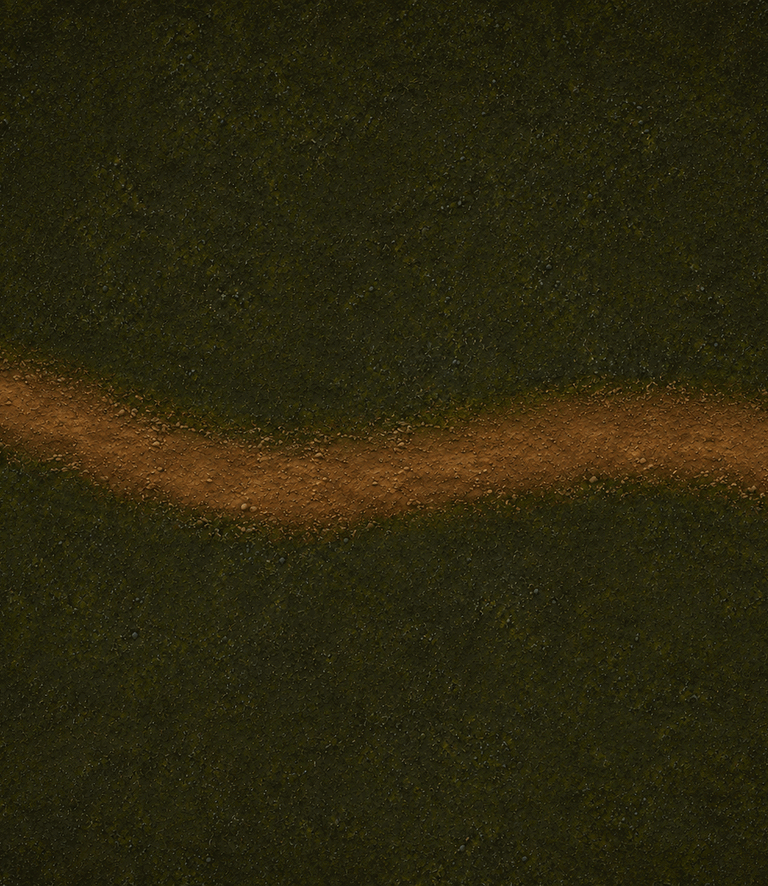
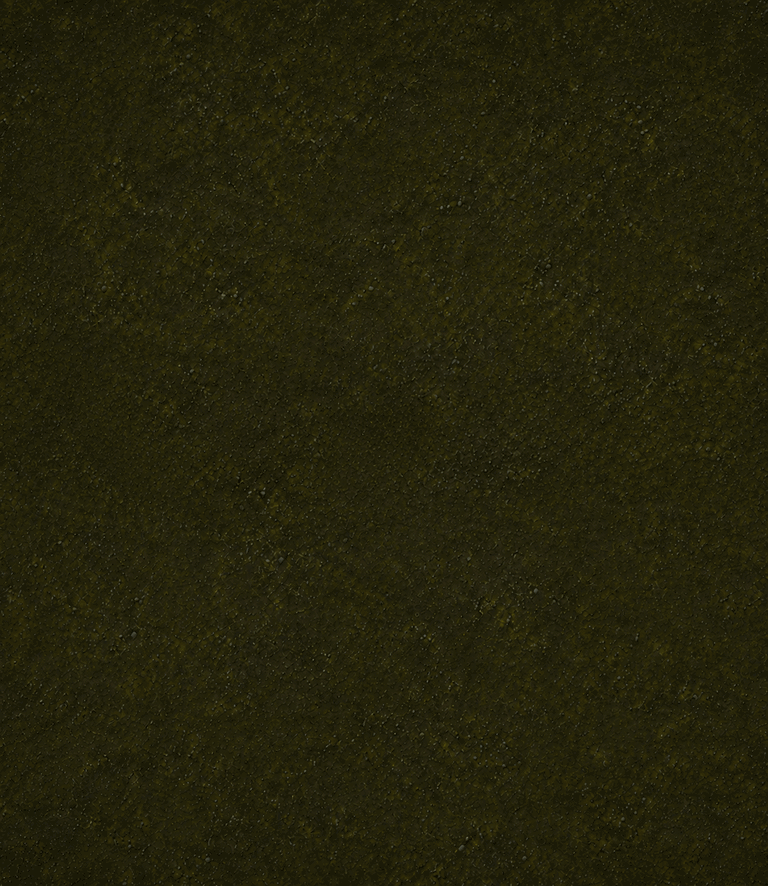
Build seamless biome road system

Changed region(s): [[0.0, 0.3962, 1.0, 0.6095], [0.2812, 0.3047, 0.3125, 0.3352]]

diff --git a/script.js b/script.js
@@ -4,7 +4,7 @@
   const canvas=document.getElementById('gameCanvas');
   const game=document.getElementById('game');
   const ctx=canvas.getContext('2d',{alpha:false});
-  const ASSET_VERSION='0268';
+  const ASSET_VERSION='0269';
   const MOONGLASS_SURFACE_BLEND=190;
   const MOONGLASS_GATE_TRANSITION_DURATION=1.8;
   const LIGHTING=Object.freeze({
@@ -21,8 +21,9 @@
   // iOS may ignore HTMLAudioElement volume. The asset itself is mastered at -28 LUFS.
   const MUSIC_VOLUME=1;
   const MOSSVEIN_ART={wall:null,floor:null,floorPattern:null};
-  const SURFACE_ART={mossveinGround:null,mossveinMinePath:null,moonglassGround:null,moonglassGroundPattern:null,moonglassCrystals:null,moonglassBloomBed:null};
+  const SURFACE_ART={mossveinGround:null,mossveinMinePath:null,roads:{},moonglassGround:null,moonglassGroundPattern:null,moonglassCrystals:null,moonglassBloomBed:null};
   const MOSSVEIN_MINE_PATH='assets/surface/mossvein-mine-path.png';
+  const SURFACE_ROAD_PATHS=Object.freeze({mossvein:'assets/surface/road-mossvein.png',moonglass:'assets/surface/road-moonglass.png',emberdeep:'assets/surface/road-emberdeep.png',starfall:'assets/surface/road-starfall.png'});
   const DISCOVERY_ART={crystalPocket:null};
   const STARTER_ART={sellStation:null,forgeStation:null,storageChest:null,wayfarerShop:null,moonglassGate:null,moonglassGateMark:null,emberdeepSeal:null,treasureClosed:null,treasureOpen:null,drops:{}};
   const STARTER_PATHS=Object.freeze({
@@ -131,6 +132,7 @@
   for(const [scene,path] of Object.entries(MINE_ENTRANCE_PATHS))MINE_ENTRANCE_ART[scene]=loadMineEntranceImage(scene,path);
   SURFACE_ART.mossveinGround=loadSurfaceImage('assets/surface/mossvein-ground.png','mossveinGround');
   SURFACE_ART.mossveinMinePath=loadSurfaceImage(MOSSVEIN_MINE_PATH,'mossveinMinePath');
+  for(const [biome,path] of Object.entries(SURFACE_ROAD_PATHS))SURFACE_ART.roads[biome]=loadMappedImage(path,SURFACE_ART.roads,biome);
   SURFACE_ART.moonglassGround=loadSurfaceImage(SURFACE_MOONGLASS_PATHS.ground,'moonglassGround','moonglassGroundPattern');
   SURFACE_ART.moonglassCrystals=loadSurfaceImage(SURFACE_MOONGLASS_PATHS.crystals,'moonglassCrystals');
   SURFACE_ART.moonglassBloomBed=loadSurfaceImage(SURFACE_MOONGLASS_PATHS.bloomBed,'moonglassBloomBed');
@@ -204,7 +206,7 @@
   const buyChestCost=document.getElementById('buyChestCost');
   const baseModuleList=document.getElementById('baseModuleList');
 
-  const BUILD={version:'0.26.8',name:'MOONGLASS COMPLETE'};
+  const BUILD={version:'0.26.9',name:'MOONGLASS COMPLETE'};
   document.getElementById('buildVersion').textContent='v'+BUILD.version;
   document.getElementById('menuBuildVersion').textContent='EVER DEEPER v'+BUILD.version+' · '+BUILD.name;
 
@@ -496,25 +498,25 @@
   ];
   const CHEST_INTERACT_RADIUS=108;
   const ROCK_LAYOUT=[
-    ['stone',250,535],['stone',425,600],['stone',605,480],['stone',760,670],['stone',890,410],
-    ['stone',325,900],['stone',610,1020],['stone',835,930],['stone',935,780],['stone',510,790],
-    ['copper',790,300],['copper',915,565],['copper',205,1050],['copper',710,845],['copper',430,1060],
+    ['stone',250,535],['stone',425,600],['stone',605,480],['stone',760,520],['stone',890,410],
+    ['stone',325,1030],['stone',610,1020],['stone',835,930],['stone',935,880],['stone',510,980],
+    ['copper',790,300],['copper',915,565],['copper',205,1050],['copper',710,1010],['copper',430,1060],
     ['gold',560,380],
     ['moonglass',1300,350],['moonglass',1490,530],['moonglass',1730,330],['moonglass',1980,500],
-    ['moonglass',1265,825],['moonglass',1510,1010],['moonglass',1790,810],['moonglass',2040,1030],
-    ['copper',1390,690],['copper',1880,670],['stone',1600,750],['stone',2100,750],['starshard',1840,1080],
+    ['moonglass',1265,950],['moonglass',1510,1010],['moonglass',1790,950],['moonglass',2040,1030],
+    ['copper',1390,900],['copper',1880,900],['stone',1600,930],['stone',2100,930],['starshard',1840,1080],
     ['emberstone',2380,335],['emberstone',2580,520],['emberstone',2825,310],['emberstone',3140,470],
-    ['emberstone',2400,865],['emberstone',2690,1030],['emberstone',2940,790],['emberstone',3220,1010],
-    ['moonglass',2520,700],['copper',3070,680],['sunslag',3000,1080],
+    ['emberstone',2400,865],['emberstone',2690,1030],['emberstone',2940,950],['emberstone',3220,1010],
+    ['moonglass',2520,900],['copper',3070,900],['sunslag',3000,1080],
     ['astralite',3505,320],['astralite',3700,520],['astralite',3970,300],['astralite',4240,470],
-    ['astralite',3475,900],['astralite',3780,1040],['astralite',4090,820],['astralite',4380,1040],
-    ['moonglass',3630,735],['emberstone',4300,690],['crownstone',4140,1110]
+    ['astralite',3475,900],['astralite',3780,1040],['astralite',4090,960],['astralite',4380,1040],
+    ['moonglass',3630,920],['emberstone',4300,900],['crownstone',4140,1110]
   ];
   const VEIN_DEFINITIONS=[
     {id:'copper_run',type:'copper',timeLimit:16,respawn:28,color:'#e2a36e',bonus:{copper:3},positions:[[875,1085],[945,1025],[1010,1100]]},
     {id:'moonglass_bloom',type:'moonglass',timeLimit:18,respawn:32,color:'#9ef2ed',bonus:{moonglass:2,starshard:1},positions:[[1600,430],[1665,500],[1735,555]]},
-    {id:'ember_fault',type:'emberstone',timeLimit:22,respawn:38,color:'#ff9b54',bonus:{emberstone:3,sunslag:1},positions:[[2700,690],[2780,665],[2855,725]]},
-    {id:'starfall_lattice',type:'astralite',timeLimit:20,respawn:42,color:'#c4cfff',bonus:{astralite:3,crownstone:1},positions:[[3720,690],[3810,650],[3900,720]]}
+    {id:'ember_fault',type:'emberstone',timeLimit:22,respawn:38,color:'#ff9b54',bonus:{emberstone:3,sunslag:1},positions:[[2700,875],[2780,940],[2855,900]]},
+    {id:'starfall_lattice',type:'astralite',timeLimit:20,respawn:42,color:'#c4cfff',bonus:{astralite:3,crownstone:1},positions:[[3720,880],[3810,930],[3900,890]]}
   ];
   const VEIN_ROCK_LAYOUT=VEIN_DEFINITIONS.flatMap(vein=>vein.positions.map(position=>[vein.type,position[0],position[1],vein.id]));
 
@@ -2942,8 +2944,35 @@
 
   function drawMossveinMineApproach(){
     const image=SURFACE_ART.mossveinMinePath;if(!imageReady(image))return;
-    const topLeft=worldToScreen(125,775),width=700,height=155;if(topLeft.x>viewWidth||topLeft.y>viewHeight||topLeft.x+width<0||topLeft.y+height<0)return;
+    const topLeft=worldToScreen(125,750),width=700,height=200;if(topLeft.x>viewWidth||topLeft.y>viewHeight||topLeft.x+width<0||topLeft.y+height<0)return;
     ctx.drawImage(image,topLeft.x,topLeft.y,width,height);
+  }
+
+  function drawSurfaceRoadImage(image,x,flip,clipLeft=-Infinity,clipRight=Infinity,alpha=1){
+    if(!imageReady(image))return;const y=590,width=1190,height=300,p=worldToScreen(x,y);
+    if(p.x>viewWidth+width||p.x+width<0||p.y>viewHeight+height||p.y+height<0)return;
+    ctx.save();
+    if(Number.isFinite(clipLeft)||Number.isFinite(clipRight)){const left=Number.isFinite(clipLeft)?worldToScreen(clipLeft,0).x:-width,right=Number.isFinite(clipRight)?worldToScreen(clipRight,0).x:viewWidth+width;ctx.beginPath();ctx.rect(left,-height,right-left,viewHeight+height*2);ctx.clip()}
+    ctx.globalAlpha=alpha;
+    if(flip){ctx.translate(p.x+width,p.y);ctx.scale(-1,1);ctx.drawImage(image,0,0,width,height)}else ctx.drawImage(image,p.x,p.y,width,height);
+    ctx.restore();
+  }
+
+  function drawSurfaceMainRoad(){
+    const definitions=[
+      {biome:'mossvein',x:-40,flip:false,boundary:null},
+      {biome:'moonglass',x:1070,flip:true,boundary:WORLD.gateX},
+      {biome:'emberdeep',x:2200,flip:false,boundary:WORLD.emberGateX},
+      {biome:'starfall',x:3320,flip:true,boundary:WORLD.starfallGateX}
+    ];
+    if(!definitions.every(item=>imageReady(SURFACE_ART.roads[item.biome])))return;
+    drawSurfaceRoadImage(SURFACE_ART.roads.mossvein,-40,false);
+    for(let index=1;index<definitions.length;index++){
+      const item=definitions[index],image=SURFACE_ART.roads[item.biome],fadeStart=item.boundary-40,fadeEnd=item.boundary+40;
+      drawSurfaceRoadImage(image,item.x,item.flip,fadeEnd,Infinity);
+      const strips=8,stripWidth=(fadeEnd-fadeStart)/strips;
+      for(let strip=0;strip<strips;strip++){const left=fadeStart+strip*stripWidth,right=left+stripWidth+.5,alpha=(strip+.5)/strips;drawSurfaceRoadImage(image,item.x,item.flip,left,right,alpha)}
+    }
   }
 
   function drawGround(){
@@ -2965,6 +2994,7 @@
     ctx.fillStyle='rgba(222,76,35,.07)';ctx.fillRect(emberStart,0,starfallStart-emberStart,viewHeight);
     ctx.fillStyle='rgba(154,164,255,.075)';ctx.fillRect(starfallStart,0,viewWidth-starfallStart,viewHeight);
     drawMossveinMineApproach();
+    drawSurfaceMainRoad();
   }
 
   function drawBiomeStructure(){
@@ -3484,7 +3514,7 @@
 
   window.__everDeeperTest={
     snapshot:()=>JSON.parse(JSON.stringify({
-      build:BUILD,state,scene:currentScene,depth:currentDepth,assetVersion:ASSET_VERSION,music:{asset:MUSIC_PATH.split('?')[0],volume:MUSIC_VOLUME,loop:true,started:musicStarted},assetRendering:{stone:['node'],copper:['wall','node'],gold:['wall','node']},entranceAssetRendering:{mossMine:true,moonMine:true},surfaceAssetRendering:{mossveinGround:true,mossveinMineApproach:MOSSVEIN_MINE_PATH,mossveinMineApproachBounds:{x:125,y:775,w:700,h:155},mossveinMinePosition:{x:180,y:830},mainRoadUntouched:true,legacyMossveinGrid:false,legacyMossveinPath:false,legacyMossveinDecorations:false},starterRendering:{sellStation:STARTER_PATHS.sellStation,forgeStation:STARTER_PATHS.forgeStation,storageChest:STARTER_PATHS.storageChest,wayfarerShop:STARTER_PATHS.wayfarerShop,treasureClosed:STARTER_PATHS.treasureClosed,treasureOpen:STARTER_PATHS.treasureOpen,groundDrops:DROP_PATHS,legacyCanvasStations:false,legacyMossveinChests:false,legacyStarterDrops:false},rootwoundRendering:{floor:ROOTWOUND_PATHS.floor,wall:ROOTWOUND_PATHS.wall,nodes:['rootiron','deepstone','ambercore','burrowsteel'],rootironWall:ROOTWOUND_PATHS.rootironWall,shaft:ROOTWOUND_PATHS.shaft,sellStation:ROOTWOUND_PATHS.sellStation,drillForge:ROOTWOUND_PATHS.drillForge,legacyFloorDecorations:false,legacyTerrainTexture:false,legacyDepthShaft:false,legacyDepthStations:false,legacyResourceNodes:false},
+      build:BUILD,state,scene:currentScene,depth:currentDepth,assetVersion:ASSET_VERSION,music:{asset:MUSIC_PATH.split('?')[0],volume:MUSIC_VOLUME,loop:true,started:musicStarted},assetRendering:{stone:['node'],copper:['wall','node'],gold:['wall','node']},entranceAssetRendering:{mossMine:true,moonMine:true},surfaceAssetRendering:{mossveinGround:true,mainRoad:SURFACE_ROAD_PATHS,seamlessBiomeRoad:true,roadCrossfadeWidth:80,mossveinMineApproach:MOSSVEIN_MINE_PATH,mossveinMineApproachBounds:{x:125,y:750,w:700,h:200},mossveinMinePosition:{x:180,y:830},branchUnderMainRoad:true,legacyBakedMainRoad:false,legacyMossveinGrid:false,legacyMossveinPath:false,legacyMossveinDecorations:false},starterRendering:{sellStation:STARTER_PATHS.sellStation,forgeStation:STARTER_PATHS.forgeStation,storageChest:STARTER_PATHS.storageChest,wayfarerShop:STARTER_PATHS.wayfarerShop,treasureClosed:STARTER_PATHS.treasureClosed,treasureOpen:STARTER_PATHS.treasureOpen,groundDrops:DROP_PATHS,legacyCanvasStations:false,legacyMossveinChests:false,legacyStarterDrops:false},rootwoundRendering:{floor:ROOTWOUND_PATHS.floor,wall:ROOTWOUND_PATHS.wall,nodes:['rootiron','deepstone','ambercore','burrowsteel'],rootironWall:ROOTWOUND_PATHS.rootironWall,shaft:ROOTWOUND_PATHS.shaft,sellStation:ROOTWOUND_PATHS.sellStation,drillForge:ROOTWOUND_PATHS.drillForge,legacyFloorDecorations:false,legacyTerrainTexture:false,legacyDepthShaft:false,legacyDepthStations:false,legacyResourceNodes:false},
       surfaceMoonglassRendering:{ground:SURFACE_MOONGLASS_PATHS.ground,crystals:SURFACE_MOONGLASS_PATHS.crystals,bloomBed:SURFACE_MOONGLASS_PATHS.bloomBed,entrance:MINE_ENTRANCE_PATHS.moonMine,gateMark:STARTER_PATHS.moonglassGateMark,emberdeepSeal:STARTER_PATHS.emberdeepSeal,openBoundaryGatesRemoved:true,animatedGateTransition:true,smoothMossveinBlend:true,backgroundCrystalsDistinct:true,chests:{crystalCache:{closed:SURFACE_MOONGLASS_PATHS.crystalCacheClosed,open:SURFACE_MOONGLASS_PATHS.crystalCacheOpen},reliquary:{closed:SURFACE_MOONGLASS_PATHS.reliquaryClosed,open:SURFACE_MOONGLASS_PATHS.reliquaryOpen}},legacyGrid:false,legacyDecorations:false,legacyChests:false,legacyEntrance:false,legacyEmberdeepSeal:false},
       moonglassRendering:{surfaceGround:SURFACE_MOONGLASS_PATHS.ground,surfaceCrystals:SURFACE_MOONGLASS_PATHS.crystals,bloomBed:SURFACE_MOONGLASS_PATHS.bloomBed,entrance:MINE_ENTRANCE_PATHS.moonMine,gateMark:STARTER_PATHS.moonglassGateMark,emberdeepSeal:STARTER_PATHS.emberdeepSeal,openBoundaryGatesRemoved:true,animatedGateTransition:true,smoothMossveinBlend:true,backgroundCrystalsDistinct:true,chests:{crystalCache:{closed:SURFACE_MOONGLASS_PATHS.crystalCacheClosed,open:SURFACE_MOONGLASS_PATHS.crystalCacheOpen},reliquary:{closed:SURFACE_MOONGLASS_PATHS.reliquaryClosed,open:SURFACE_MOONGLASS_PATHS.reliquaryOpen}},floor:MOONGLASS_PATHS.floor,wall:MOONGLASS_PATHS.wall,routeMarker:MOONGLASS_PATHS.routeMarker,pocket:MOONGLASS_PATHS.pocket,cache:MOONGLASS_PATHS.cache,shrine:MOONGLASS_PATHS.shrine,nodes:{moonglass:MOONGLASS_PATHS.moonglassNode,starshard:MOONGLASS_PATHS.starshardNode},wallHints:{moonglass:MOONGLASS_PATHS.moonglassWall,starshard:MOONGLASS_PATHS.starshardWall},barriers:{moon_prism_gate:MOONGLASS_PATHS.prismFault,moon_star_lock:MOONGLASS_PATHS.starGeode},drops:{moonglass:DROP_PATHS.moonglass,starshard:DROP_PATHS.starshard},legacySurfaceDecorations:false,legacyMineFloor:false,legacyMineTerrain:false,legacyMineWalls:false,legacyBarriers:false,legacyPocketRewards:false,legacyResourceNodes:false},
       prismaticRendering:{floor:PRISMATIC_PATHS.floor,wall:PRISMATIC_PATHS.wall,shaft:PRISMATIC_PATHS.shaft,sellStation:PRISMATIC_PATHS.sellStation,drillForge:PRISMATIC_PATHS.drillForge,pocket:PRISMATIC_PATHS.pocket,cache:PRISMATIC_PATHS.cache,shrine:PRISMATIC_PATHS.shrine,nodes:{prismite:PRISMATIC_PATHS.prismiteNode,deepstone:ROOTWOUND_PATHS.deepstone,lunacore:PRISMATIC_PATHS.lunacoreNode,phasecrystal:PRISMATIC_PATHS.phasecrystalNode},wallHints:{prismite:PRISMATIC_PATHS.prismiteWall,deepstone:PRISMATIC_PATHS.deepstoneWall,lunacore:PRISMATIC_PATHS.lunacoreWall,phasecrystal:PRISMATIC_PATHS.phasecrystalWall},drops:{deepstone:DROP_PATHS.deepstone,prismite:DROP_PATHS.prismite,lunacore:DROP_PATHS.lunacore,phasecrystal:DROP_PATHS.phasecrystal},legacyFloorDecorations:false,legacyTerrainTexture:false,legacyDepthShaft:false,legacyDepthStations:false,legacyPocketRewards:false,legacyResourceNodes:false},

diff --git a/tests/runtime-smoke.js b/tests/runtime-smoke.js
@@ -20,12 +20,12 @@ function auditBrandRemoval(directory){
 auditBrandRemoval(repositoryRoot);
 assert.doesNotMatch(source,/drawPlayerDrillLayer|drawPlayerCropAtGrip|offhandCrop|drillRearAnchor|assets\/tools\/drill-/);
 assert.match(source,/fullDrillComposites:true,legacyDrillLimbCrops:false/);
-assert.equal(latest.version,'0268');
+assert.equal(latest.version,'0269');
 assert.match(html,/version\.json\?t=/);
 assert.match(html,/cache:'no-store'/);
-assert.match(html,/style\.css\?v=0268/);
-assert.match(html,/script\.js\?v=0268/);
-assert.match(html,/assets\/branding\/ever-deeper-logo\.png\?v=0268/);
+assert.match(html,/style\.css\?v=0269/);
+assert.match(html,/script\.js\?v=0269/);
+assert.match(html,/assets\/branding\/ever-deeper-logo\.png\?v=0269/);
 assert.match(html,/<title>Ever Deeper<\/title>/);
 assert.match(source,/MUSIC_PATH='assets\/audio\/ever-deeper-drift-loop\.mp3\?v='/);
 assert.match(source,/backgroundMusic\.loop=true/);
@@ -50,6 +50,8 @@ assert.equal(pocketAsset.toString('ascii',1,4),'PNG');assert.ok([4,6].includes(p
 const starterProductionAssets=['assets/surface/assay-station.png','assets/surface/forge-station.png','assets/surface/storage-chest.png','assets/surface/wayfarer-shop.png','assets/surface/treasure-cache-closed.png','assets/surface/treasure-cache-open.png','assets/surface/moonglass-gate.png','assets/surface/mossvein-mine-path.png','assets/mossvein/buried-cache.png','assets/mossvein/mining-rush-shrine.png','assets/drops/stone-drop.png','assets/drops/copper-drop.png','assets/drops/gold-drop.png'];
 for(const relative of starterProductionAssets){const png=fs.readFileSync(require('node:path').join(__dirname,'..',relative));assert.equal(png.toString('ascii',1,4),'PNG');assert.ok([4,6].includes(png[25])||png.includes(Buffer.from('tRNS')),relative+' must preserve transparency');assert.ok(png.length<180000,relative+' exceeds mobile asset budget')}
 assertPng('assets/surface/mossvein-mine-path.png',768,341,{maxBytes:100000});
+assertPng('assets/surface/mossvein-ground.png',768,886,{alpha:false,maxBytes:450000});
+for(const biome of ['mossvein','moonglass','emberdeep','starfall'])assertPng('assets/surface/road-'+biome+'.png',1024,341,{maxBytes:100000});
 const rootwoundAssets=['floor.png','wall.png','rootiron-node.png','deepstone-node.png','ambercore-node.png','burrowsteel-node.png','rootiron-wall.png','depth-shaft.png','sell-station.png','drill-forge.png'];
 for(const name of rootwoundAssets){const png=fs.readFileSync(require('node:path').join(__dirname,'..','assets/rootwound',name));assert.equal(png.toString('ascii',1,4),'PNG');assert.ok(png.length<250000,name+' exceeds mobile asset budget');if(name!=='floor.png')assert.ok([4,6].includes(png[25])||png.includes(Buffer.from('tRNS')),name+' must preserve transparency')}
 const moonglassSurfaceAssets={
@@ -145,15 +147,15 @@ function createRuntime(){
 
 let runtime=createRuntime();
 let api=runtime.api;
-assert.equal(api.snapshot().build.version,'0.26.8');
+assert.equal(api.snapshot().build.version,'0.26.9');
 assert.equal(api.snapshot().build.name,'MOONGLASS COMPLETE');
-assert.equal(runtime.elements.get('buildVersion').textContent,'v0.26.8');
-assert.equal(api.snapshot().assetVersion,'0268');
+assert.equal(runtime.elements.get('buildVersion').textContent,'v0.26.9');
+assert.equal(api.snapshot().assetVersion,'0269');
 assert.equal(JSON.stringify(api.snapshot().music),JSON.stringify({asset:'assets/audio/ever-deeper-drift-loop.mp3',volume:1,loop:true,started:false}));
-assert.equal(JSON.stringify(api.startMusic()),JSON.stringify({src:'assets/audio/ever-deeper-drift-loop.mp3?v=0268',volume:1,loop:true,paused:false}));
+assert.equal(JSON.stringify(api.startMusic()),JSON.stringify({src:'assets/audio/ever-deeper-drift-loop.mp3?v=0269',volume:1,loop:true,paused:false}));
 assert.equal(JSON.stringify(api.snapshot().assetRendering),JSON.stringify({stone:['node'],copper:['wall','node'],gold:['wall','node']}));
 assert.equal(JSON.stringify(api.snapshot().entranceAssetRendering),JSON.stringify({mossMine:true,moonMine:true}));
-assert.equal(JSON.stringify(api.snapshot().surfaceAssetRendering),JSON.stringify({mossveinGround:true,mossveinMineApproach:'assets/surface/mossvein-mine-path.png',mossveinMineApproachBounds:{x:125,y:775,w:700,h:155},mossveinMinePosition:{x:180,y:830},mainRoadUntouched:true,legacyMossveinGrid:false,legacyMossveinPath:false,legacyMossveinDecorations:false}));
+assert.equal(JSON.stringify(api.snapshot().surfaceAssetRendering),JSON.stringify({mossveinGround:true,mainRoad:{mossvein:'assets/surface/road-mossvein.png',moonglass:'assets/surface/road-moonglass.png',emberdeep:'assets/surface/road-emberdeep.png',starfall:'assets/surface/road-starfall.png'},seamlessBiomeRoad:true,roadCrossfadeWidth:80,mossveinMineApproach:'assets/surface/mossvein-mine-path.png',mossveinMineApproachBounds:{x:125,y:750,w:700,h:200},mossveinMinePosition:{x:180,y:830},branchUnderMainRoad:true,legacyBakedMainRoad:false,legacyMossveinGrid:false,legacyMossveinPath:false,legacyMossveinDecorations:false}));
 assert.equal(JSON.stringify(api.snapshot().starterRendering),JSON.stringify({sellStation:'assets/surface/assay-station.png',forgeStation:'assets/surface/forge-station.png',storageChest:'assets/surface/storage-chest.png',wayfarerShop:'assets/surface/wayfarer-shop.png',treasureClosed:'assets/surface/treasure-cache-closed.png',treasureOpen:'assets/surface/treasure-cache-open.png',groundDrops:{stone:'assets/drops/stone-drop.png',copper:'assets/drops/copper-drop.png',gold:'assets/drops/gold-drop.png',moonglass:'assets/drops/moonglass-drop.png',starshard:'assets/drops/starshard-drop.png',deepstone:'assets/drops/deepstone-drop.png',prismite:'assets/drops/prismite-drop.png',lunacore:'assets/drops/lunacore-drop.png',phasecrystal:'assets/drops/phasecrystal-drop.png'},legacyCanvasStations:false,legacyMossveinChests:false,legacyStarterDrops:false}));
 assert.equal(JSON.stringify(api.snapshot().starterGateRendering),JSON.stringify({moonglassGate:'assets/surface/moonglass-gate.png',moonglassGateMark:'assets/surface/moonglass-gate-mark.png',animatedMoonglassTransition:true,openWorldGatesRemoved:true,legacyStarterGate:false}));
 assert.equal(JSON.stringify(api.snapshot().rootwoundRendering),JSON.stringify({floor:'assets/rootwound/floor.png',wall:'assets/rootwound/wall.png',nodes:['rootiron','deepstone','ambercore','burrowsteel'],rootironWall:'assets/rootwound/rootiron-wall.png',shaft:'assets/rootwound/depth-shaft.png',sellStation:'assets/rootwound/sell-station.png',drillForge:'assets/rootwound/drill-forge.png',legacyFloorDecorations:false,legacyTerrainTexture:false,legacyDepthShaft:false,legacyDepthStations:false,legacyResourceNodes:false}));
@@ -172,7 +174,13 @@ function exposeRock(testApi,rock,maxHits=8){for(let hit=0;hit<maxHits&&!testApi.
 
 const storageBeforeMoonglassRendering=new Map(storage),productionRuntime=createRuntime(),productionApi=productionRuntime.api;
 productionApi.reset();
-renderAt(productionRuntime,productionApi,180,830,['assets/surface/mossvein-mine-path.png','assets/entrances/mossvein-entrance.png']);
+const surfaceRoadRocks=productionApi.snapshot().rocks.filter(rock=>rock.scene==='surface');
+assert.equal(surfaceRoadRocks.some(rock=>rock.y>=620&&rock.y<=830),false,'main road must remain clear of resource nodes');
+assert.equal(surfaceRoadRocks.some(rock=>rock.x>=100&&rock.x<=825&&rock.y>=730&&rock.y<=960),false,'Mossvein branch road must remain clear of resource nodes');
+renderAt(productionRuntime,productionApi,180,830,['assets/surface/mossvein-mine-path.png','assets/surface/road-mossvein.png','assets/entrances/mossvein-entrance.png']);
+renderAt(productionRuntime,productionApi,1500,720,['assets/surface/road-moonglass.png']);
+renderAt(productionRuntime,productionApi,2600,720,['assets/surface/road-emberdeep.png']);
+renderAt(productionRuntime,productionApi,3700,720,['assets/surface/road-starfall.png']);
 renderAt(productionRuntime,productionApi,2175,650,['assets/surface/moonglass-ground.png','assets/surface/emberdeep-seal.png']);
 productionApi.startMoonglassGateTransition();
 renderAt(productionRuntime,productionApi,1110,650,['assets/surface/moonglass-gate.png','assets/surface/moonglass-gate-mark.png']);

diff --git a/tests/browser/mining-loop.spec.js b/tests/browser/mining-loop.spec.js
@@ -1059,10 +1059,10 @@ test('expanded mine depths use lazy terrain chunks and a following camera',async
   await freshGame(page);
   await page.evaluate(()=>window.__everDeeperTest.enterMine('mossMine'));
   let snapshot=await page.evaluate(()=>window.__everDeeperTest.snapshot());
-  expect(snapshot.build).toEqual({version:'0.26.8',name:'MOONGLASS COMPLETE'});
-  expect(snapshot.assetVersion).toBe('0268');
+  expect(snapshot.build).toEqual({version:'0.26.9',name:'MOONGLASS COMPLETE'});
+  expect(snapshot.assetVersion).toBe('0269');
   expect(snapshot.entranceAssetRendering).toEqual({mossMine:true,moonMine:true});
-  expect(snapshot.surfaceAssetRendering).toEqual({mossveinGround:true,mossveinMineApproach:'assets/surface/mossvein-mine-path.png',mossveinMineApproachBounds:{x:125,y:775,w:700,h:155},mossveinMinePosition:{x:180,y:830},mainRoadUntouched:true,legacyMossveinGrid:false,legacyMossveinPath:false,legacyMossveinDecorations:false});
+  expect(snapshot.surfaceAssetRendering).toEqual({mossveinGround:true,mainRoad:{mossvein:'assets/surface/road-mossvein.png',moonglass:'assets/surface/road-moonglass.png',emberdeep:'assets/surface/road-emberdeep.png',starfall:'assets/surface/road-starfall.png'},seamlessBiomeRoad:true,roadCrossfadeWidth:80,mossveinMineApproach:'assets/surface/mossvein-mine-path.png',mossveinMineApproachBounds:{x:125,y:750,w:700,h:200},mossveinMinePosition:{x:180,y:830},branchUnderMainRoad:true,legacyBakedMainRoad:false,legacyMossveinGrid:false,legacyMossveinPath:false,legacyMossveinDecorations:false});
   expect(snapshot.starterRendering).toEqual({sellStation:'assets/surface/assay-station.png',forgeStation:'assets/surface/forge-station.png',storageChest:'assets/surface/storage-chest.png',wayfarerShop:'assets/surface/wayfarer-shop.png',treasureClosed:'assets/surface/treasure-cache-closed.png',treasureOpen:'assets/surface/treasure-cache-open.png',groundDrops:{stone:'assets/drops/stone-drop.png',copper:'assets/drops/copper-drop.png',gold:'assets/drops/gold-drop.png',moonglass:'assets/drops/moonglass-drop.png',starshard:'assets/drops/starshard-drop.png',deepstone:'assets/drops/deepstone-drop.png',prismite:'assets/drops/prismite-drop.png',lunacore:'assets/drops/lunacore-drop.png',phasecrystal:'assets/drops/phasecrystal-drop.png'},legacyCanvasStations:false,legacyMossveinChests:false,legacyStarterDrops:false});
   expect(snapshot.starterGateRendering).toEqual({moonglassGate:'assets/surface/moonglass-gate.png',moonglassGateMark:'assets/surface/moonglass-gate-mark.png',animatedMoonglassTransition:true,openWorldGatesRemoved:true,legacyStarterGate:false});
   expect(snapshot.discoveryRendering).toEqual({crystalPocketAsset:'assets/mossvein/magic-crystal-pocket.png',cacheAsset:'assets/mossvein/buried-cache.png',shrineAsset:'assets/mossvein/mining-rush-shrine.png',legacyCavernRings:false,legacyMossveinPocketRewards:false,biomeGlow:true});
@@ -1083,11 +1083,11 @@ test('expanded mine depths use lazy terrain chunks and a following camera',async
 
 test('the exact build version is always visible in the game HUD',async({page})=>{
   await freshGame(page);
-  await expect(page.locator('#buildVersion')).toHaveText('v0.26.8');
+  await expect(page.locator('#buildVersion')).toHaveText('v0.26.9');
   await expect(page.locator('.brand-logo')).toHaveAttribute('alt','Ever Deeper');
   await expect(page.locator('.brand-logo')).toHaveJSProperty('complete',true);
   await page.locator('#menuButton').click();
-  await expect(page.locator('#menuBuildVersion')).toHaveText('EVER DEEPER v0.26.8 · MOONGLASS COMPLETE');
+  await expect(page.locator('#menuBuildVersion')).toHaveText('EVER DEEPER v0.26.9 · MOONGLASS COMPLETE');
 });
 
 test('one text-free visual guide leads to the next action and fades nearby',async({page})=>{
@@ -1395,11 +1395,11 @@ test('Rootwound Depth 2 uses the complete production asset set',async({page})=>{
   expect(art.every(asset=>asset.width>=300&&asset.height>=300)).toBe(true);
 });
 
-test('v0.26.8 exposes the complete Moonglass and Prismatic production contracts',async({page})=>{
+test('v0.26.9 exposes the complete Moonglass and Prismatic production contracts',async({page})=>{
   await freshGame(page);
   const snapshot=await page.evaluate(()=>window.__everDeeperTest.snapshot());
-  expect(snapshot.build.version).toBe('0.26.8');
-  expect(snapshot.assetVersion).toBe('0268');
+  expect(snapshot.build.version).toBe('0.26.9');
+  expect(snapshot.assetVersion).toBe('0269');
   expect(snapshot.surfaceMoonglassRendering).toEqual(SURFACE_MOONGLASS_RENDERING);
   expect(snapshot.moonglassRendering).toEqual(MOONGLASS_RENDERING);
   expect(snapshot.prismaticRendering).toEqual(PRISMATIC_RENDERING);

diff --git a/tests/browser/release-branding.spec.js b/tests/browser/release-branding.spec.js
@@ -12,14 +12,14 @@ test('Ever Deeper release branding is complete and mobile-safe',async({page})=>{
   const logo=page.locator('.brand-logo');
   await expect(logo).toBeVisible();
   await expect(logo).toHaveAttribute('alt','Ever Deeper');
-  await expect(logo).toHaveAttribute('src','assets/branding/ever-deeper-logo.png?v=0268');
+  await expect(logo).toHaveAttribute('src','assets/branding/ever-deeper-logo.png?v=0269');
   const logoState=await logo.evaluate(image=>({complete:image.complete,width:image.naturalWidth,height:image.naturalHeight,bounds:image.getBoundingClientRect().toJSON()}));
   expect(logoState).toMatchObject({complete:true,width:800,height:297});
   expect(logoState.bounds.width).toBeGreaterThanOrEqual(124);
   expect(logoState.bounds.right).toBeLessThanOrEqual(await page.evaluate(()=>innerWidth));
 
-  await expect(page.locator('#buildVersion')).toHaveText('v0.26.8');
-  await expect(page.locator('#menuBuildVersion')).toHaveText('EVER DEEPER v0.26.8 · MOONGLASS COMPLETE');
+  await expect(page.locator('#buildVersion')).toHaveText('v0.26.9');
+  await expect(page.locator('#menuBuildVersion')).toHaveText('EVER DEEPER v0.26.9 · MOONGLASS COMPLETE');
   const release=await page.evaluate(()=>{
     const api=window.__everDeeperTest;
     api.reset();api.save();
@@ -33,7 +33,7 @@ test('Ever Deeper release branding is complete and mobile-safe',async({page})=>{
     };
   });
   expect(release).toEqual({
-    build:{version:'0.26.8',name:'MOONGLASS COMPLETE'},
+    build:{version:'0.26.9',name:'MOONGLASS COMPLETE'},
     music:'assets/audio/ever-deeper-drift-loop.mp3',
     retiredMarkup:false,
     retiredStorage:false,

diff --git a/index.html b/index.html
@@ -26,16 +26,16 @@
       window.addEventListener('pageshow',event=>{if(event.persisted)checkLatest()});
     })();
   </script>
-  <link rel="preload" as="image" href="assets/branding/ever-deeper-logo.png?v=0268">
-  <link rel="stylesheet" href="style.css?v=0268">
+  <link rel="preload" as="image" href="assets/branding/ever-deeper-logo.png?v=0269">
+  <link rel="stylesheet" href="style.css?v=0269">
 </head>
 <body>
   <main id="game" aria-label="Ever Deeper mining game">
     <header class="topbar">
       <div class="brand" aria-label="Ever Deeper">
-        <img class="brand-logo" src="assets/branding/ever-deeper-logo.png?v=0268" alt="Ever Deeper">
+        <img class="brand-logo" src="assets/branding/ever-deeper-logo.png?v=0269" alt="Ever Deeper">
         <div class="brand-meta">
-          <span id="buildVersion">v0.26.8</span>
+          <span id="buildVersion">v0.26.9</span>
           <small id="areaName">MOSSVEIN QUARRY</small>
         </div>
       </div>
@@ -141,7 +141,7 @@
 
     <div id="menuShade" class="menu-shade" hidden>
       <section class="menu-card" role="dialog" aria-modal="true" aria-labelledby="menuTitle">
-        <span id="menuBuildVersion">EVER DEEPER v0.26.8 · MOONGLASS COMPLETE</span>
+        <span id="menuBuildVersion">EVER DEEPER v0.26.9 · MOONGLASS COMPLETE</span>
         <h2 id="menuTitle">Miner's Ledger</h2>
         <div class="ledger-grid">
           <div><span>Stone mined</span><b id="stoneMined">0</b></div>
@@ -166,6 +166,6 @@
       </section>
     </div>
   </main>
-  <script src="script.js?v=0268"></script>
+  <script src="script.js?v=0269"></script>
 </body>
 </html>

diff --git a/README.md b/README.md
@@ -1,6 +1,6 @@
 # Ever Deeper
 
-Current build: **Ever Deeper v0.26.8 - Moonglass Complete**
+Current build: **Ever Deeper v0.26.9 - Moonglass Complete**
 
 Moonglass now has a complete production-art pass across the surface biome, mine portal, chests, labyrinth barriers and hidden chambers, plus the full Prismatic Depths loop with its own portal, stations, resources, wall hints, drops, and Phase Crystal drill gate.
 
